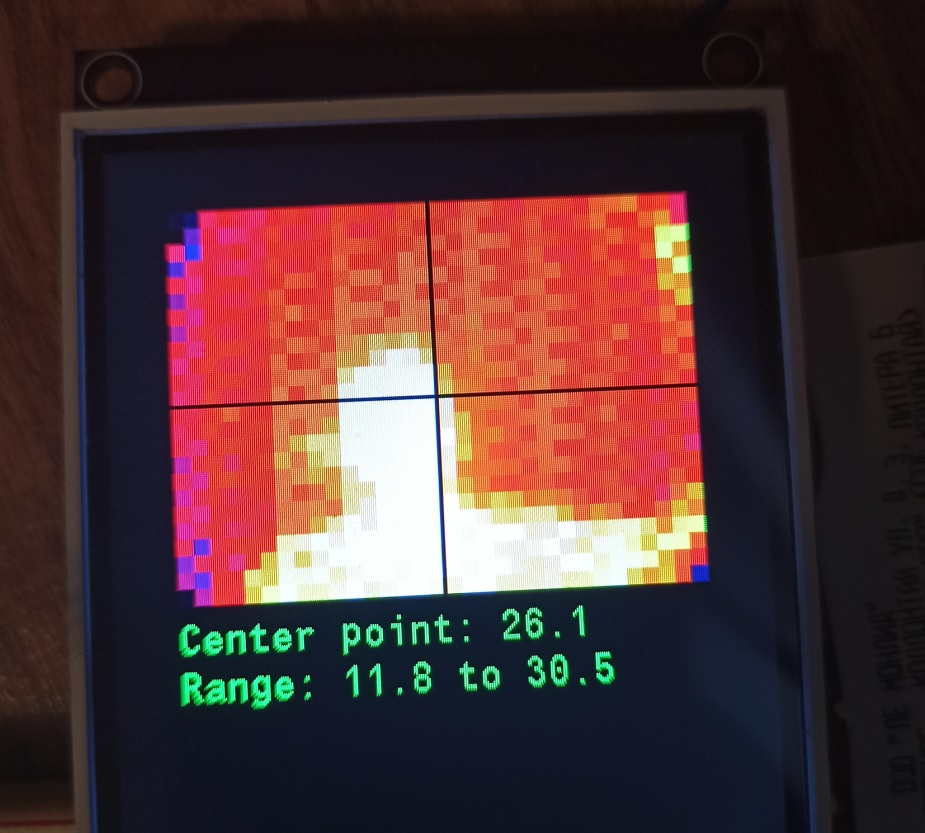
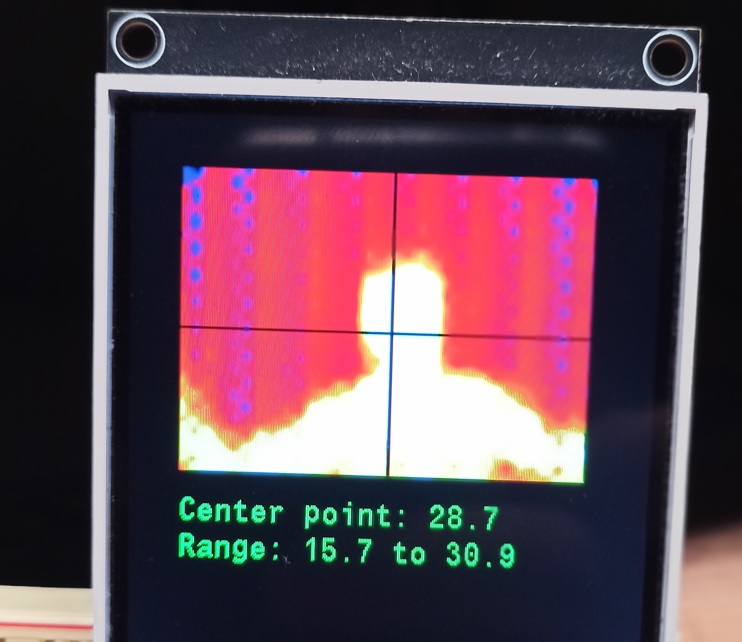
Interpolation algo implemented

diff --git a/src/task/tasks/ThermoScreen.cpp b/src/task/tasks/ThermoScreen.cpp
@@ -80,33 +80,11 @@ void TermoScreen::imageUpdate(const thermomatrix::ThermoArray& newThermData)
     m_minVal = *result.first;
     m_maxVal = *result.second;
 
-    uint16_t coilCounter = 0;
-    uint16_t xStart = 0;
-    uint16_t yStart = 0;
-
-    /* Fill the Image Buffer with pixels values */
-    for (int ind = 0; ind < newThermData.size; ind++)
-    {
-        // Get pixel colour code:
-        rgb565 pixel = getTemperatureColor(newThermData.data[ind], m_minVal, m_maxVal);
-
-        // Fill the rectangle (one point) area:
-        for (int i = 0; i < m_ImgPointSideSize; i++)
-        {
-            for (int j = 0; j < m_ImgPointSideSize; j++)
-            {
-                m_imgBuffer[yStart + j][xStart + i] = pixel;
-            }
-        }
-        // Shift start position:
-        xStart += m_ImgPointSideSize;
-        // Switch to the new row:
-        if (xStart >= m_ImgCoilsPixSize)
-        {
-            xStart = 0;
-            yStart += m_ImgPointSideSize;
-        }
-    }
+    #ifdef INTERPOLATION_RENDER
+    interpolationRender(newThermData);
+    #else
+    simpleRender(newThermData);
+    #endif
 
     /* Make the Upper Layer (cross center aiming point): */
     for (int i = 0; i < m_ImgCoilsPixSize; i++)
@@ -123,6 +101,105 @@ void TermoScreen::imageUpdate(const thermomatrix::ThermoArray& newThermData)
     /* Start data uploading to the display: */
     m_display.locateArea(m_pictureStartPoint, m_pictureEndPoint);
     m_display.sendPixels((uint16_t*)m_imgBuffer, m_ImgCoilsPixSize * m_ImgRowsPixSize);
+}
+
+void TermoScreen::simpleRender(const thermomatrix::ThermoArray& newThermData)
+{
+    uint16_t xStart = 0;
+    uint16_t yStart = 0;
+
+    // Fill the Image Buffer with pixels values:
+    for (int ind = 0; ind < newThermData.size; ind++)
+    {
+        // Get pixel colour code:
+        rgb565 pixel = getTemperatureColor(newThermData.data[ind], m_minVal, m_maxVal);
+
+        // Fill the rectangle (one point) area:
+        for (int i = 0; i < m_ImgScale; i++)
+        {
+            for (int j = 0; j < m_ImgScale; j++)
+            {
+                m_imgBuffer[yStart + j][xStart + i] = pixel;
+            }
+        }
+        // Shift start position:
+        xStart += m_ImgScale;
+        // Switch to the new row:
+        if (xStart >= m_ImgCoilsPixSize)
+        {
+            xStart = 0;
+            yStart += m_ImgScale;
+        }
+    }
+}
+
+void TermoScreen::interpolationRender(const thermomatrix::ThermoArray& newThermData)
+{
+    auto frameBuffer = reinterpret_cast<uint16_t*>(m_imgBuffer);
+
+    // Precalculating the zoom level for the frame
+    float range = m_maxVal - m_minVal;
+    if (range < 0.001f)
+        range = 0.001f;   // Null division protection
+
+    // Inverse range calculating
+    float invRange = 255.0 / range;
+
+    // Calculation of the palette index to a fixed point with 12 bits accuracy:
+    int32_t scaleFactorFp = (int32_t)(invRange * 4096.0f);
+    int32_t tMinFp = (int32_t)(m_minVal * 100.0f);
+
+    // The main cycle of bilinear interpolation:
+    for (int ty = 0; ty < (m_MatrixRows - 1); ty++)
+    {
+        for (int tx = 0; tx < (m_MatrixCoils - 1); tx++)
+        {
+            // Get the float values of 4 neighboring pixels and scale them (*100) to an integer:
+            int32_t c00 = static_cast<int32_t>(newThermData.data[ty * m_MatrixCoils + tx] * 100.0);
+            int32_t c10 = static_cast<int32_t>(newThermData.data[ty * m_MatrixCoils + (tx + 1)] * 100.0);
+            int32_t c01 = static_cast<int32_t>(newThermData.data[(ty + 1) * m_MatrixCoils + tx] * 100.0);
+            int32_t c11 = static_cast<int32_t>(newThermData.data[(ty + 1) * m_MatrixCoils + (tx + 1)] * 100.0);
+
+            // Interpolation inside the thermo-pixel block:
+            for (int y = 0; y < m_ImgScale; y++)
+            {
+                int32_t wTop = m_ImgScale - y;
+                int32_t wBot = y;
+
+                // Calculating the offset of the screen row:
+                int screenRowOffset = (ty * m_ImgScale + y) * 256;
+                for (int x = 0; x < m_ImgScale; x++)
+                {
+                    int32_t w00 = (m_ImgScale - x) * wTop;
+                    int32_t w10 = x * wTop;
+                    int32_t w01 = (m_ImgScale - x) * wBot;
+                    int32_t w11 = x * wBot;
+                    // Get the interpolated temperature multiplied by 100:
+                    int32_t tempScaled = (c00 * w00 + c10 * w10 + c01 * w01 + c11 * w11) >> 6;
+
+                    // Calculation of the palette array index:
+                    int32_t tempDiff = tempScaled - tMinFp;
+                    int32_t index;
+                    if (tempDiff <= 0)
+                    {
+                        index = 0;
+                    }
+                    else
+                    {
+                        // Multiply the difference by the calculated coefficient,
+                        // and remove the scale (*100) and the fixed point (>> 12):
+                        index = (tempDiff * scaleFactorFp) / 100;
+                        index >>= 12;
+                        if (index > 255)
+                            index = 255;
+                    }
+                    // Write to the screen buffer:
+                    int screenX = tx * m_ImgScale + x;
+                    frameBuffer[screenRowOffset + screenX] = Palette_Ironbow[index];
+                }
+            }
+        }
+    }
 }
 
 void TermoScreen::printString(Coordnt begin, const char* str, uint16_t size, const Font* font, rgb565 fontClr, rgb565 bkgrClr)

diff --git a/src/task/tasks/ThermoScreen.h b/src/task/tasks/ThermoScreen.h
@@ -13,6 +13,12 @@
 using namespace graphic;
 
 /**
+ * @brief Option for linear interpolation rendering type (smoothing image)
+ * @details ACHTUNG: For the processor time optimisation it works with powers-of-two scales (m_ImgScale)!
+ */
+#define INTERPOLATION_RENDER
+
+/**
  * @brief Thermo picture builder
  * 
  * @details SLOT for MLX90640 measurements data struct
@@ -49,11 +55,11 @@ private:
     SemaphoreHandle_t mainBufFreeSemphr;    // Semaphore: Main Pixels Buffer is free (no DMA process uses it) 
     
     /* Screen coodrinates variables: */
-    static const uint16_t m_MatrixCoils = MLX90640_COLUMN_NUM;  // Number of thermomatrix coils
-    static const uint16_t m_MatrixRows = MLX90640_LINE_NUM;     // Number of thermomatrix rows
-    static const uint16_t m_ImgPointSideSize = 8;               // Size of one logical thermoframe pixel (in screen pixels)
-    static const uint16_t m_ImgCoilsPixSize = m_ImgPointSideSize * m_MatrixCoils;    // Number of coils in thermoframe (in screen pixels)
-    static const uint16_t m_ImgRowsPixSize = m_ImgPointSideSize * m_MatrixRows;      // Number of rows in thermoframe (in screen pixels)
+    static const uint16_t m_MatrixCoils = MLX90640_COLUMN_NUM;              // Number of thermomatrix coils
+    static const uint16_t m_MatrixRows = MLX90640_LINE_NUM;                 // Number of thermomatrix rows
+    static const uint16_t m_ImgScale = 8;                                   // Size of one logical thermoframe pixel (in screen pixels)
+    static const uint16_t m_ImgCoilsPixSize = m_ImgScale * m_MatrixCoils;   // Number of coils in thermoframe (in screen pixels) 256
+    static const uint16_t m_ImgRowsPixSize = m_ImgScale * m_MatrixRows;     // Number of rows in thermoframe (in screen pixels) 192
     const graphic::Coordnt m_pictureStartPoint;     // Coordinates of thermo picture rectangle start (upper left cornen)
     const graphic::Coordnt m_pictureEndPoint;       // Coordinates of thermo picture rectangle end (lower right cornen)
 
@@ -92,6 +98,19 @@ private:
      * @param [in] newThermData Pack of new measurements from the thermo-array sensor
      */
     void imageUpdate(const thermomatrix::ThermoArray& newThermData);
+
+    /**
+     * @brief Simple image rendering (colour squares with m_ImgScale side)
+     * @param [in] newThermData Link to the new measurements pack
+     */
+    void simpleRender(const thermomatrix::ThermoArray& newThermData);
+
+    /**
+     * @brief Image rendering with linear interpolation algorithm
+     * @details m_ImgScale must be a powers-of-two (2, 4, 8...)
+     * @param [in] newThermData Link to the new measurements pack
+     */
+    void interpolationRender(const thermomatrix::ThermoArray& newThermData);
 
     /**
      * @brief Converts the metadata (measurements) to strings and outputs to the display
